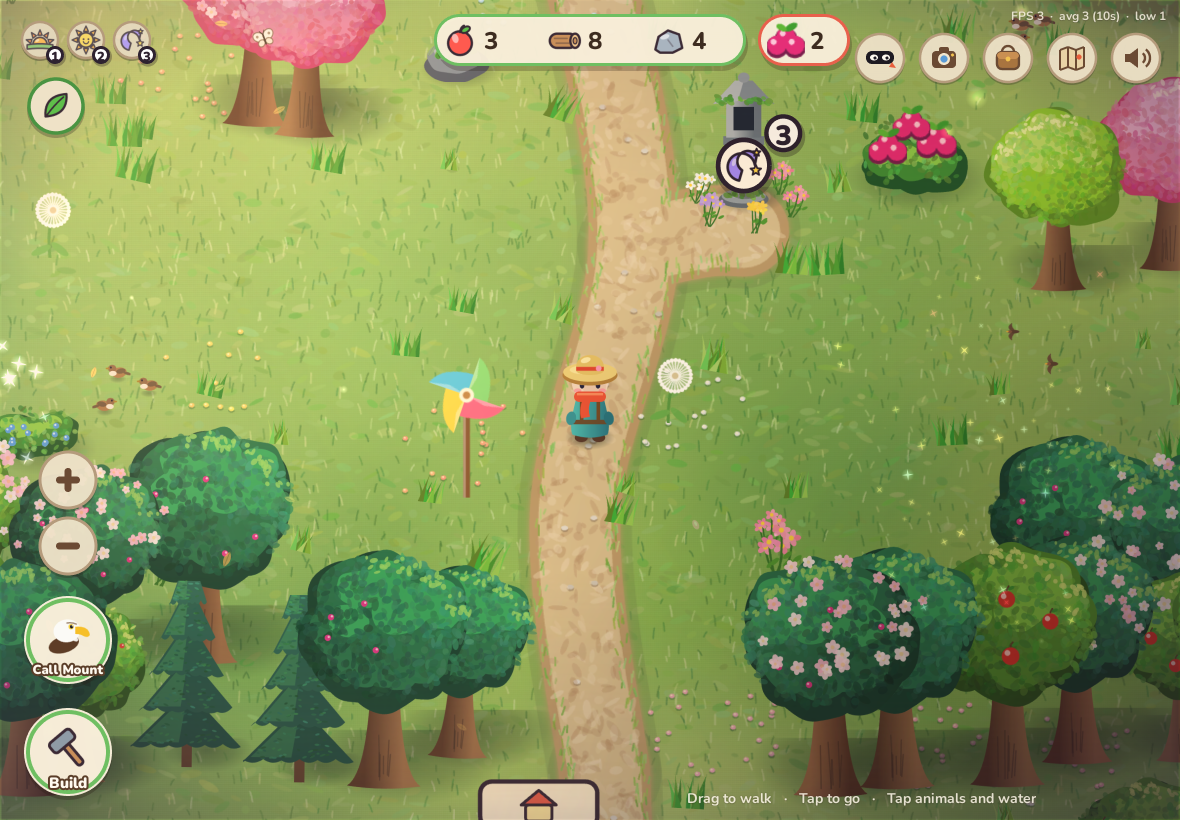
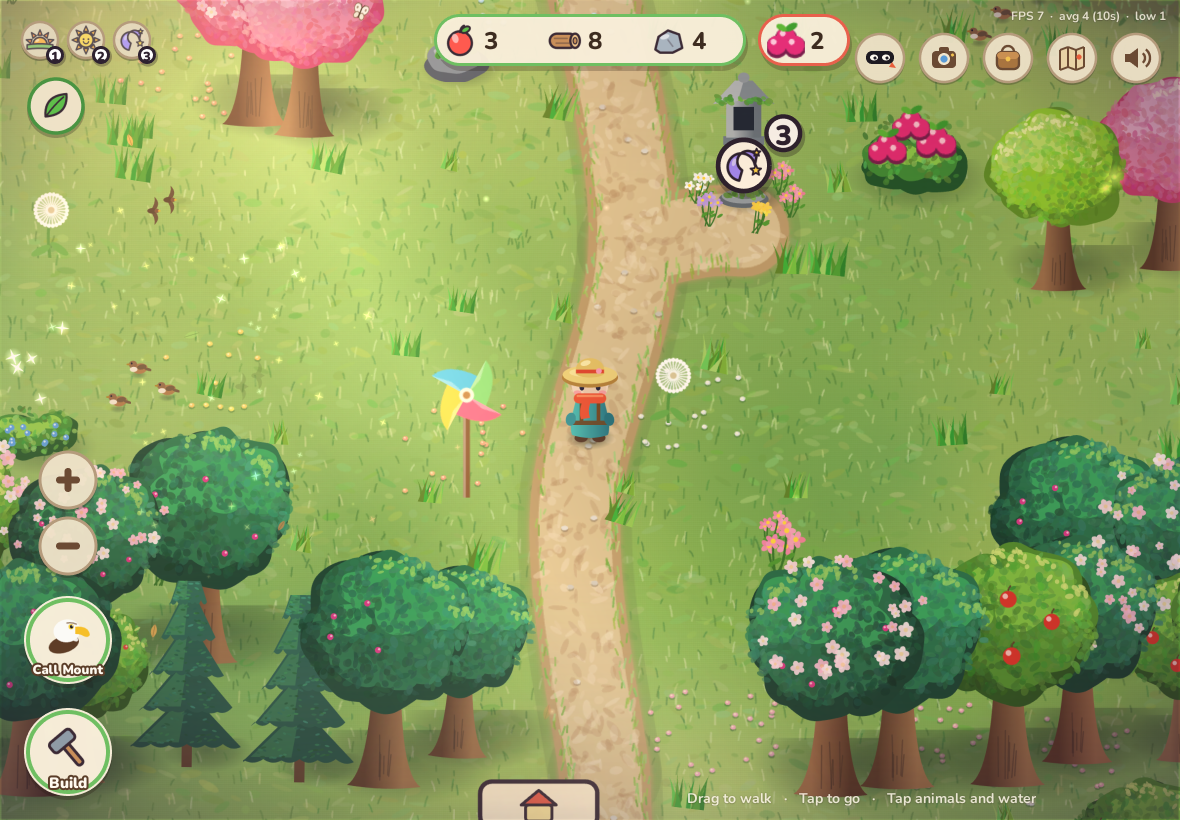
43: paw-print escape trail done (What's new wording, paws screenshot)

diff --git a/src/whatsnew.ts b/src/whatsnew.ts
@@ -8,7 +8,7 @@ export const VERSION = '2026-11-01-thief';
 export type WhatsNewItem = { icon: 'wood' | 'fruit' | 'berry' | 'star' | 'heart'; text: string };
 
 export const ITEMS: WhatsNewItem[] = [
-  { icon: 'star', text: 'Watch out for the Mount Thief! Tap the mask button and a sneaky masked critter runs in. Tap it 3 times to catch it and get thank-you berries, or it hides one of your flying friends behind a puzzle for you to rescue!' },
+  { icon: 'star', text: 'Watch out for the Mount Thief! Tap the mask button and a sneaky masked critter runs in. Tap it 3 times to catch it and get thank-you berries, or it dashes off leaving little paw prints and hides one of your flying friends behind a puzzle for you to rescue!' },
   { icon: 'star', text: 'Your stable shows every season friend now! Ride the Reindeer, Goose, Owl, Flamingo or Pumpkin and the whole glade turns to its season!' },
   { icon: 'heart', text: 'Super capes! Friends without real wings, like the Cowboy Cookie and the Tamale, now fly with a flowing cape. Birds keep their wings!' },
   { icon: 'heart', text: 'Three new flying friends! A Tamale, a shiny golden H-E-Buddy and a pink Chef Concha. Bop critters in the Wild Woods to find their lunchboxes!' },
